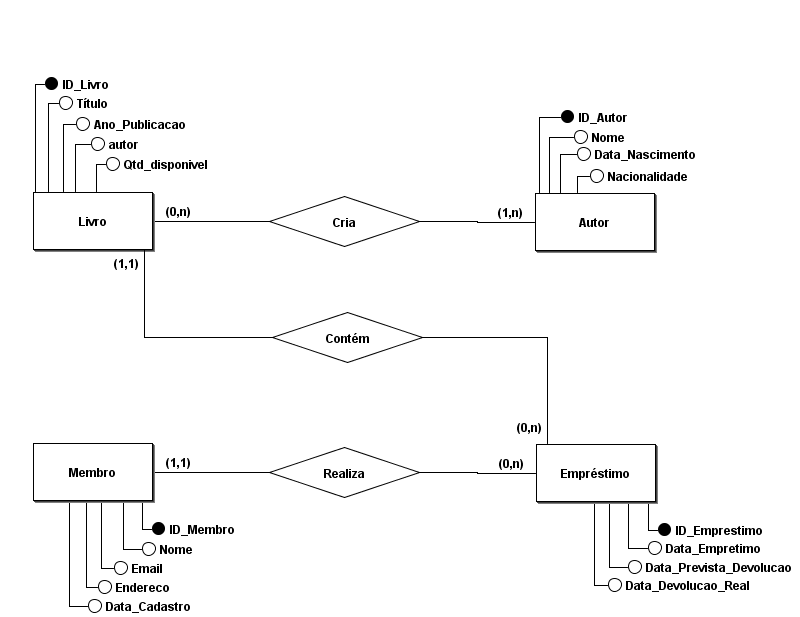
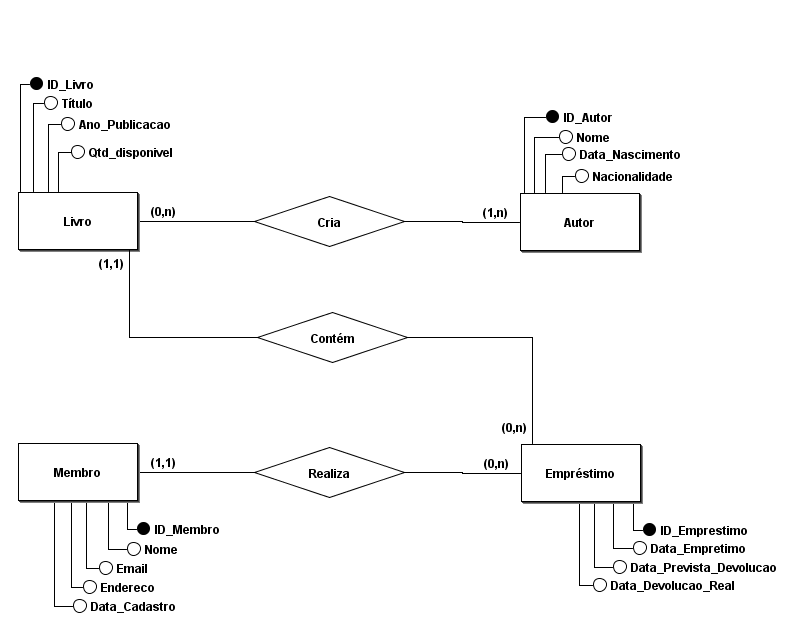
Entidade Livro com todas as requisições

diff --git a/servidor.js b/servidor.js
@@ -42,9 +42,9 @@ app.get('/livros/:id', async (req, res) => {
 });
 
 app.post('/livros', async (req, res) => {
-    const { titulo, anoPublicacao, autor, qtdDisponivel } = req.body;
+    const { titulo, anoPublicacao, qtdDisponivel } = req.body;
 
-    if (!titulo || !anoPublicacao || !autor || qtdDisponivel === undefined) {
+    if (!titulo || !anoPublicacao || qtdDisponivel === undefined) {
         return res.status(400).json({ mensagem: "Todos os campos são obrigatórios." });
     }
 
@@ -55,7 +55,6 @@ app.post('/livros', async (req, res) => {
         id: Date.now(),
         titulo,
         anoPublicacao: parseInt(anoPublicacao),
-        autor,
         qtdDisponivel: parseInt(qtdDisponivel)
     };
 
@@ -76,9 +75,9 @@ app.put('/livros/:id', async (req, res) => {
         return res.status(404).json({ mensagem: `Livro com ID ${id} não encontrado para atualização.` });
     }
 
-    const { titulo, anoPublicacao, autor, qtdDisponivel } = req.body;
+    const { titulo, anoPublicacao, qtdDisponivel } = req.body;
 
-    if (!titulo || !anoPublicacao || !autor || qtdDisponivel === undefined) {
+    if (!titulo || !anoPublicacao || qtdDisponivel === undefined) {
         return res.status(400).json({ mensagem: "Para o PUT, todos os campos do livro são obrigatórios!" });
     }
 
@@ -86,7 +85,6 @@ app.put('/livros/:id', async (req, res) => {
         id: id,
         titulo,
         anoPublicacao: parseInt(anoPublicacao),
-        autor,
         qtdDisponivel: parseInt(qtdDisponivel)
     };
 
@@ -100,7 +98,7 @@ app.patch('/livros/:id', async (req, res) => {
     const id = parseInt(req.params.id);
     const dadosCompletos = await lerDados();
     let livros = dadosCompletos.livros;
-    const { titulo, anoPublicacao, autor, qtdDisponivel } = req.body;
+    const { titulo, anoPublicacao,qtdDisponivel } = req.body;
 
     const index = livros.findIndex(l => l.id === id);
 
@@ -108,7 +106,7 @@ app.patch('/livros/:id', async (req, res) => {
         return res.status(404).json({ mensagem: `Livro com ID ${id} não encontrado para atualização parcial.` });
     }
 
-    if (!titulo && !anoPublicacao && !autor && qtdDisponivel === undefined) {
+    if (!titulo && !anoPublicacao && qtdDisponivel === undefined) {
         return res.status(400).json({ mensagem: "Para o PATCH, pelo menos um campo do livro deve ser fornecido!" });
     } 
 
@@ -118,10 +116,6 @@ app.patch('/livros/:id', async (req, res) => {
 
     if (anoPublicacao) {
         livros[index].anoPublicacao = parseInt(anoPublicacao);
-    }
-
-    if (autor) {
-        livros[index].autor = autor;
     }
 
     if (qtdDisponivel || qtdDisponivel === 0) {
